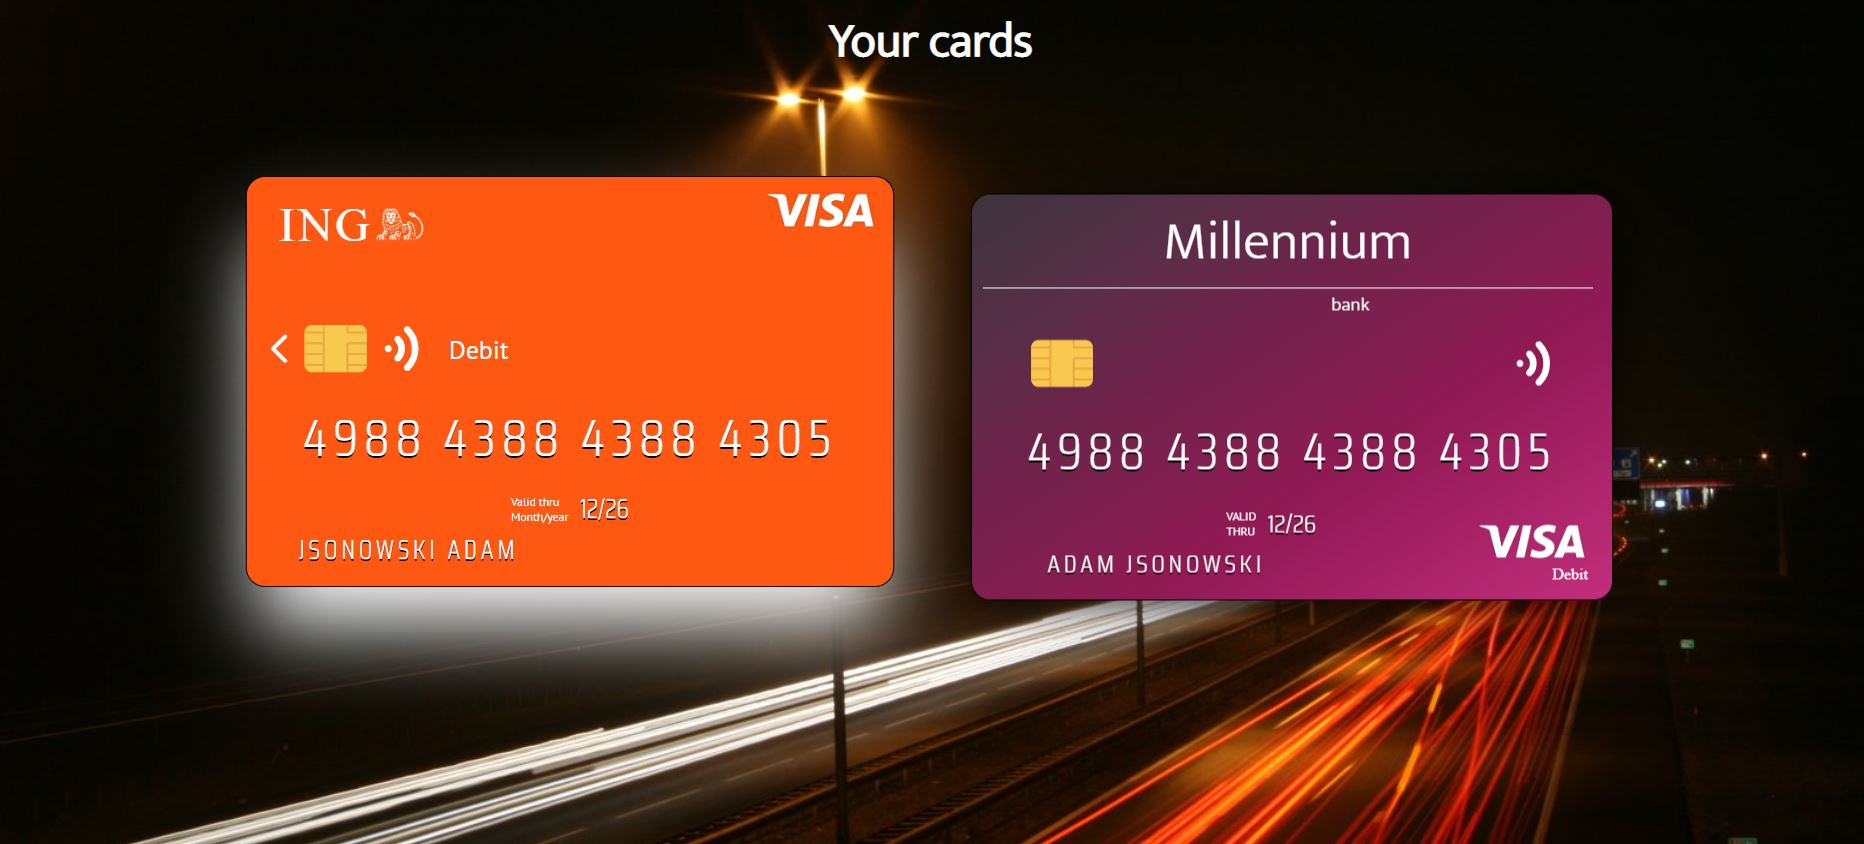
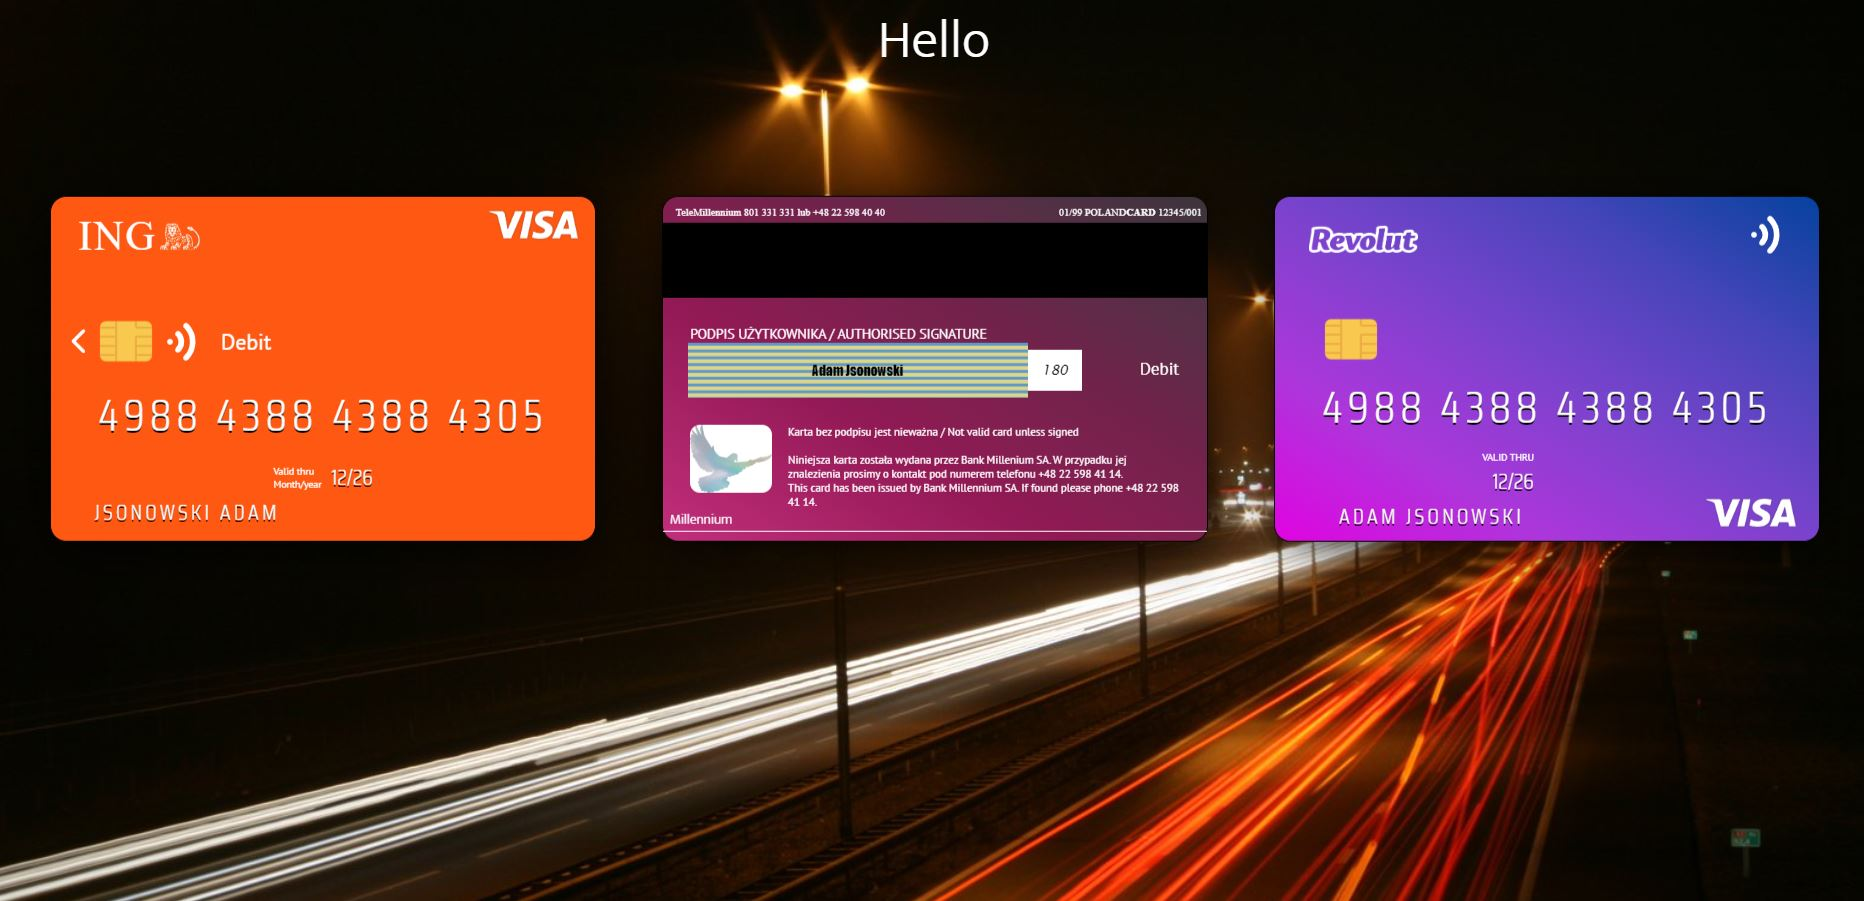
change card flipping mechanism from hover to click on card

diff --git a/index.html b/index.html
@@ -12,7 +12,7 @@
         <main class="main">
             <p class="page-title">Hello</p>
             <div class="cards-area">
-                <div class="maincontainer">
+                <div class="card">
                     <div class="credit-card" id="ing-example-card">
                         <div class="credit-card__front">
                                 <div class="top credit-card__top">
@@ -89,7 +89,7 @@
                 </div>
 
                 <!-- Millennium credit card -->
-                <div class="maincontainer">
+                <div class="card">
                     <div class="credit-card" id="millennium-example-card">
                         <div class="credit-card__front">
                             <div class="top--millennium top credit-card__top">
@@ -171,7 +171,7 @@
                 </div>
 
                 <!-- Revolut credit card -->
-                <div class="maincontainer">
+                <div class="card">
                     <div class="credit-card" id="revolut-example-card">
                         <div class="credit-card__front">
                             <div class="top--revolut top credit-card__top">

diff --git a/style.css b/style.css
@@ -54,11 +54,6 @@ p {
     margin: 0;
 }
 
-a {
-    text-decoration: none;
-    color: white;
-}
-
 .credit-card {
     position: absolute;
     border: 1px solid black;
@@ -72,11 +67,8 @@ a {
 }
 
 .credit-card:hover {
-    transform: scale(1.01);
-    animation: none;
     cursor: pointer;
     box-shadow: 0 50px 80px -10px white;
-    transform: rotateY(180deg);
 }
 
 .top {
@@ -431,7 +423,7 @@ a {
 }
 
 /* reverse on hover */
-.maincontainer {
+.card {
     position: relative;
     width: 40em;
     height: 25.3em;

diff --git a/index.js b/index.js
@@ -1,9 +1,3 @@
-console.log('Bank cards');
-
-// const creditCards = document.querySelectorAll('.credit-card');
-// console.log(creditCards)
-
-// creditCards.forEach(card => {
-//     card.addEventListener('click', () => card.classList.toggle('flipCard'));
-// });
+const creditCards = document.querySelectorAll('.credit-card');
+creditCards.forEach(card => card.addEventListener('click', () => card.classList.toggle('flipCard')));
 

diff --git a/README.md b/README.md
@@ -2,9 +2,10 @@
 
 ---
 
-Simple application to present Credit Cards UI Designs.<br>
-Created with only html and css.<br>
-Cards contains example data, click on it redirect to bank website.
+Simple application to present Credit Cards UI Designs (front and back sides).<br>
+Used technology: HTML, CSS, JS<br>
+
+Cards contains example data, click on card to flip it to reverse side.
 <br>
 
 
